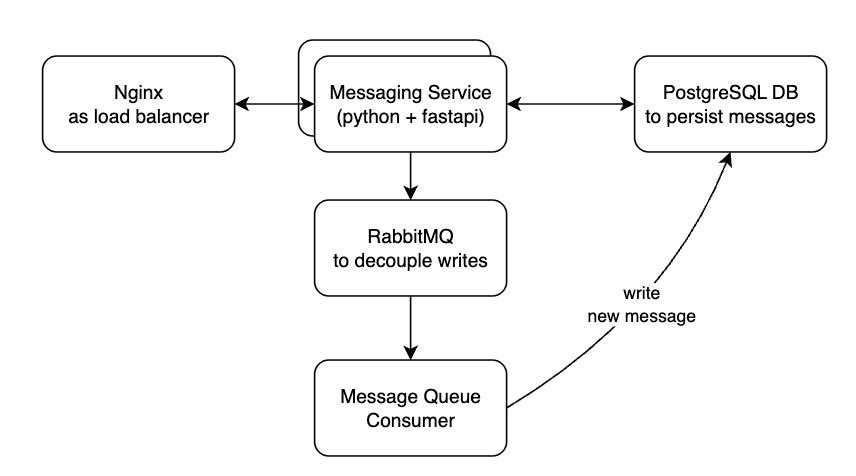
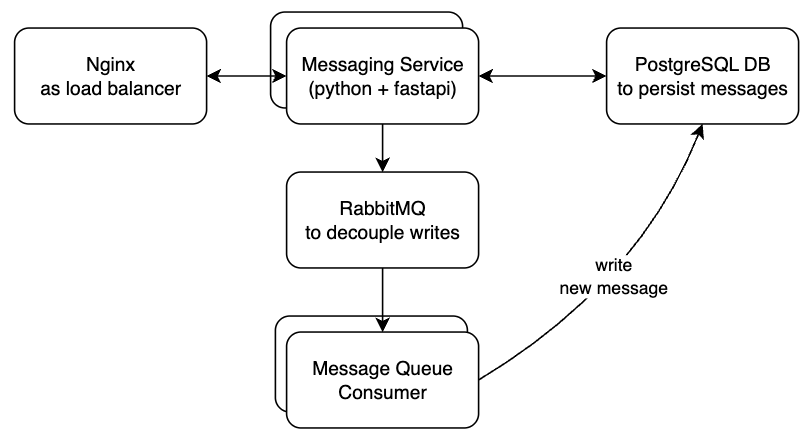
chore: update diagram and readme to reflect write svc changes

diff --git a/README.md b/README.md
@@ -8,6 +8,7 @@ A REST API for sending and retrieving messages built with FastAPI and SQLAlchemy
 
 - **NGINX**: As reverse proxy round-robin load balancer
 - **FastAPI Application**: REST API framework
+- **Write Service**: Scalable write service that listens to message queue
 - **SQLAlchemy Models**: Database models
 - **RabbitMQ**: To decouple how messages are processed
 - **PostgreSQL**: Database for persisting messages
